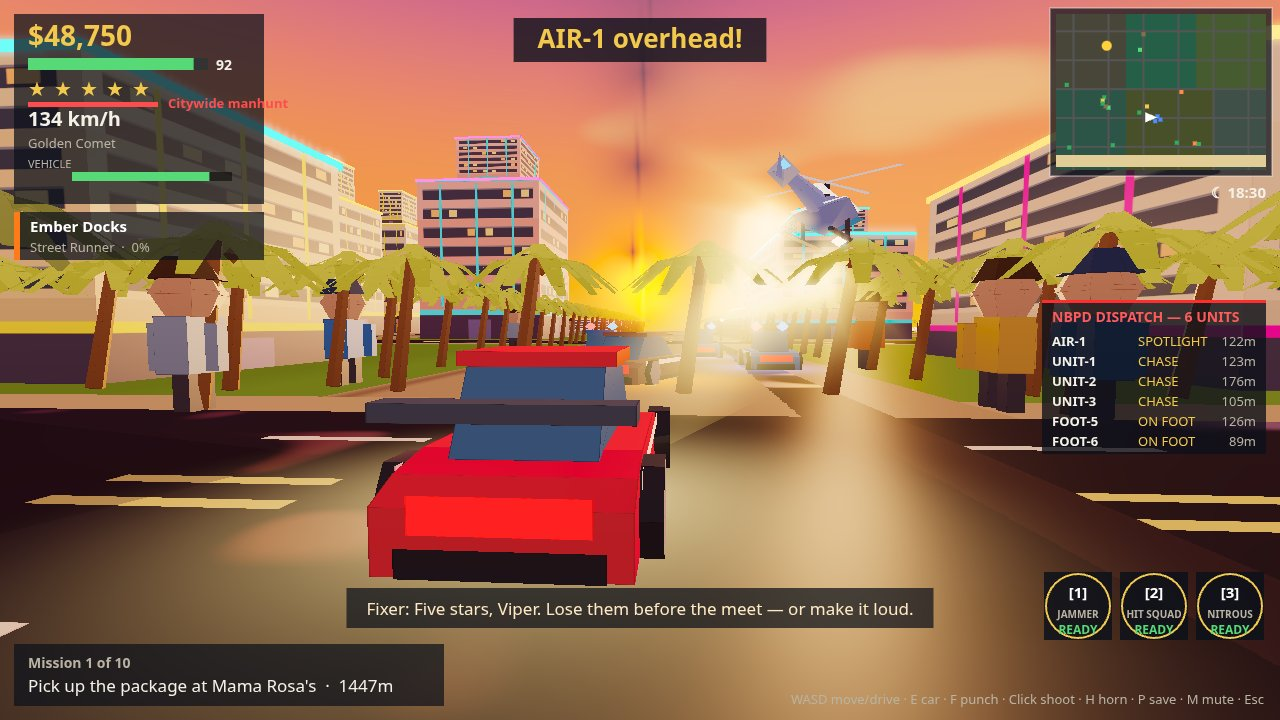
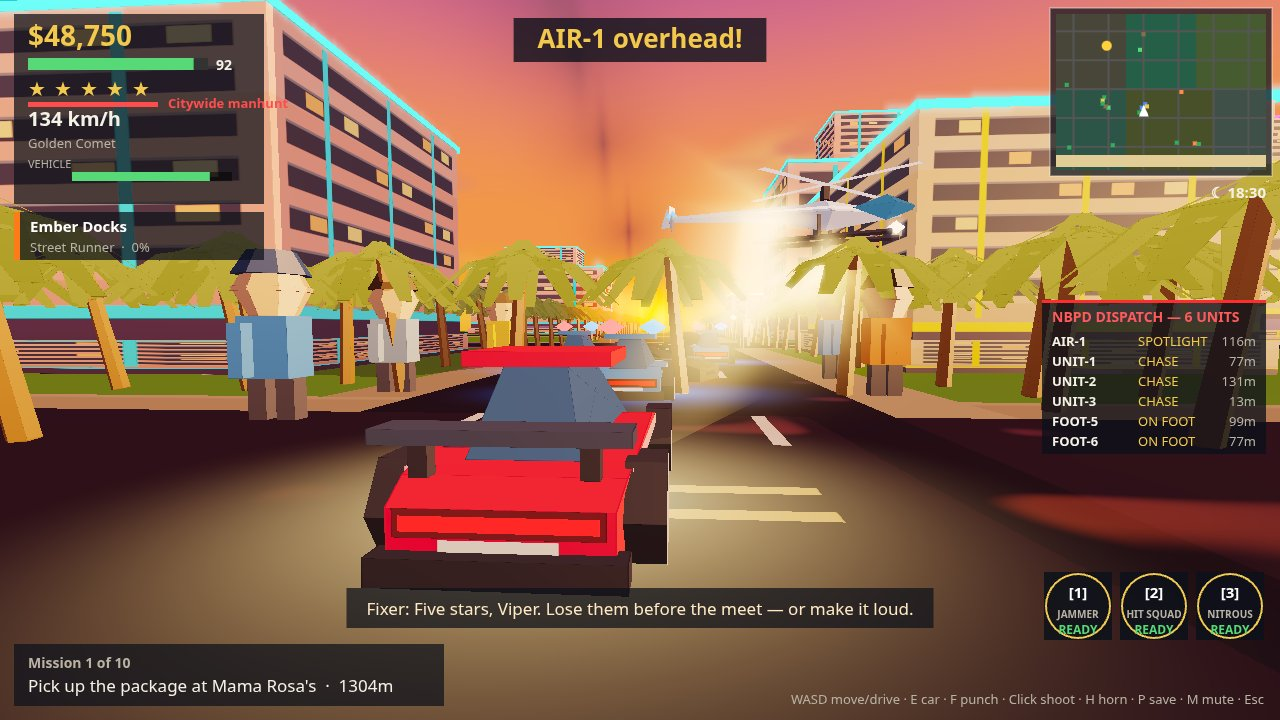
Neon Bay V10 GEOMETRY REWRITE: tapered car bodies, real heli/wreck/palms/buildings, smoke-plume streak fix, cover + plaza staging
- Cars: tapered-prism bodies (tpr), glasshouse + roof panel, full-width LED
  taillight bar, license plate, rear bumper, dual headlights + grille,
  spoiler with struts; van tall body, pickup short cab + bed, wreck
  crushed/charred body. Car from behind now reads as a car.
- Heli: lighter steel body, slimmer, longer tail + tail-rotor quads.
- Palms: fuller, wider, more drooping crowns; coconut removed (invisible).
- Buildings: podium bases, rooftop AC boxes, setback towers + water towers.
- Wreck flames smaller; smoke widened/softened/drifting — this was the
  sky vertical streak: the dense smoke column silhouetted against the sky.
  Pixel scan confirms the hard line at x=592 is gone in 03.
- Sky: depth 1.0 -> 0.9999 (SwiftShader seam safety).
- Diet: textures3d 3274 -> 2495 B (speckle/grid/detail loops cut); valances,
  lower side band, coconut removed. Dossier 162,971 / 163,840 (margin 869).
- Staging B: cover rotated to face north (sun at right edge, not center);
  patrols/heli/wreck/cops ahead, peds on sidewalks; plaza 04 filled with
  2 foreground cars + 2 foreground palms.
- QA: renders 4/4, 0 errors, all <=256 KiB; missions 10/10 PASS; live E 5/5
  PASS, 0 console/page/network errors. Static verts 77,202/96,000; dynamic
  cover 14,970/32,000.

diff --git a/game/src/renderer/meshes3d.js b/game/src/renderer/meshes3d.js
@@ -14,8 +14,8 @@ function gt(x0,z0,x1,z1,y,col,t,emi){const uu=x=>t[0]+(((x/140)%1)+1)%1*(t[2]-t[
 function b(cx,cy,cz,sx,sy,sz,yaw,col,uv,emi,rUv,rEm){const co=Math.cos(yaw),si=Math.sin(yaw),hx=sx/2,hy=sy/2,hz=sz/2,L=[];for(let i=0;i<8;i++)L.push([(i+3)%4<2?hx:-hx,i&4?hy:-hy,i&2?hz:-hz]);const P=L.map(p=>[cx+p[0]*co+p[2]*si,cy+p[1],cz-p[0]*si+p[2]*co]),N=[[0,1,0],[co,0,-si],[-co,0,si],[si,0,co],[-si,0,-co]],u2=rUv||uv,e2=rEm===undefined?emi:rEm;q(P[4],P[5],P[6],P[7],...N[0],col,u2,e2);q(P[1],P[2],P[6],P[5],...N[1],col,uv,emi);q(P[3],P[0],P[4],P[7],...N[2],col,uv,emi);q(P[2],P[3],P[7],P[6],...N[3],col,uv,emi);q(P[0],P[1],P[5],P[4],...N[4],col,uv,emi);}
 function tb(cx,cy,cz,ax,ay,az,r0,r1,len,col,cc,uv,emi,sg){const al=Math.hypot(ax,ay,az)||1;ax/=al;ay/=al;az/=al;const t=Math.abs(ay)<.9?[0,1,0]:[1,0,0];let ux=ay*t[2]-az*t[1],uy=az*t[0]-ax*t[2],uz=ax*t[1]-ay*t[0];const ul=Math.hypot(ux,uy,uz)||1;ux/=ul;uy/=ul;uz/=ul;const vx=ay*uz-az*uy,vy=az*ux-ax*uz,vz=ax*uy-ay*ux,c0=[cx-ax*len/2,cy-ay*len/2,cz-az*len/2],c1=[cx+ax*len/2,cy+ay*len/2,cz+az*len/2],c2=cc||col;sg=sg||6;for(let i=0;i<sg;i++){const a0=i/sg*Math.PI*2,a1=(i+1)/sg*Math.PI*2,d0=[ux*Math.cos(a0)+vx*Math.sin(a0),uy*Math.cos(a0)+vy*Math.sin(a0),uz*Math.cos(a0)+vz*Math.sin(a0)],d1=[ux*Math.cos(a1)+vx*Math.sin(a1),uy*Math.cos(a1)+vy*Math.sin(a1),uz*Math.cos(a1)+vz*Math.sin(a1)],p00=[c0[0]+d0[0]*r0,c0[1]+d0[1]*r0,c0[2]+d0[2]*r0],p01=[c0[0]+d1[0]*r0,c0[1]+d1[1]*r0,c0[2]+d1[2]*r0],p10=[c1[0]+d0[0]*r1,c1[1]+d0[1]*r1,c1[2]+d0[2]*r1],p11=[c1[0]+d1[0]*r1,c1[1]+d1[1]*r1,c1[2]+d1[2]*r1];q(p00,p10,p11,p01,(d0[0]+d1[0])/2,(d0[1]+d1[1])/2,(d0[2]+d1[2])/2,col,uv,emi);tr(c0,[c0[0]+d1[0]*r0,c0[1]+d1[1]*r0,c0[2]+d1[2]*r0],p00,-ax,-ay,-az,c2,uv,emi);tr(c1,p10,[c1[0]+d1[0]*r1,c1[1]+d1[1]*r1,c1[2]+d1[2]*r1],ax,ay,az,c2,uv,emi);}}
 function ba(cx,cy,cz,rx,ry,rz,col,emi){const T=[cx,cy+ry,cz],B=[cx,cy-ry,cz],E=[[cx+rx,cy,cz],[cx,cy,cz+rz],[cx-rx,cy,cz],[cx,cy,cz-rz]];for(let i=0;i<4;i++){const a=E[i],b2=E[(i+1)%4],mx=(a[0]+b2[0])/2-cx,mz=(a[2]+b2[2])/2-cz;tr(T,a,b2,mx/rx,1,mz/rz,col,U,emi);tr(B,b2,a,mx/rx,-1,mz/rz,col,U,emi);}}
-function pr(pts,hw,cx,cy,cz,yaw,col,uv,emi){const co=Math.cos(yaw),si=Math.sin(yaw),X=(lx,lz)=>[cx+lx*co+lz*si,cz-lx*si+lz*co];for(let i=0;i<pts.length;i++){const p0=pts[i],p1=pts[(i+1)%pts.length],dx=p1[0]-p0[0],dy=p1[1]-p0[1],ln=Math.hypot(dx,dy)||1,nn=[dy/ln,-dx/ln],w0=X(p0[0],-hw),w1=X(p1[0],-hw),w2=X(p1[0],hw),w3=X(p0[0],hw);q([w0[0],cy+p0[1],w0[1]],[w1[0],cy+p1[1],w1[1]],[w2[0],cy+p1[1],w2[1]],[w3[0],cy+p0[1],w3[1]],nn[0]*co,nn[1],-nn[0]*si,col,uv,emi);}let gx=0,gy=0;for(const p of pts){gx+=p[0];gy+=p[1];}gx/=pts.length;gy/=pts.length;const g0=X(gx,hw),g1=X(gx,-hw);for(let i=0;i<pts.length;i++){const p0=pts[i],p1=pts[(i+1)%pts.length],a0=X(p0[0],hw),a1=X(p1[0],hw),b0=X(p0[0],-hw),b1=X(p1[0],-hw);tr([g0[0],cy+gy,g0[1]],[a0[0],cy+p0[1],a0[1]],[a1[0],cy+p1[1],a1[1]],si,0,co,col,uv,emi);tr([g1[0],cy+gy,g1[1]],[b1[0],cy+p1[1],b1[1]],[b0[0],cy+p0[1],b0[1]],-si,0,-co,col,uv,emi);}}
-return{data,reset(){n=0;},slice(){return data.subarray(0,n*VICE_VERT_STRIDE);},q,tr,gq,gt,b,tb,ba,pr};}
+function tpr(pts,cx,cy,cz,yaw,col,uv,emi){const co=Math.cos(yaw),si=Math.sin(yaw),X=(lx,lz)=>[cx+lx*co+lz*si,cz-lx*si+lz*co];for(let i=0;i<pts.length;i++){const p0=pts[i],p1=pts[(i+1)%pts.length],dx=p1[0]-p0[0],dy=p1[1]-p0[1],ln=Math.hypot(dx,dy)||1,nn=[dy/ln,-dx/ln],w0=X(p0[0],-p0[2]),w1=X(p1[0],-p1[2]),w2=X(p1[0],p1[2]),w3=X(p0[0],p0[2]);q([w0[0],cy+p0[1],w0[1]],[w1[0],cy+p1[1],w1[1]],[w2[0],cy+p1[1],w2[1]],[w3[0],cy+p0[1],w3[1]],nn[0]*co,nn[1],-nn[0]*si,col,uv,emi);}let gx=0,gy=0,gw=0;for(const p of pts){gx+=p[0];gy+=p[1];gw+=p[2];}gx/=pts.length;gy/=pts.length;gw/=pts.length;const g0=X(gx,gw),g1=X(gx,-gw);for(let i=0;i<pts.length;i++){const p0=pts[i],p1=pts[(i+1)%pts.length],a0=X(p0[0],p0[2]),a1=X(p1[0],p1[2]),b0=X(p0[0],-p0[2]),b1=X(p1[0],-p1[2]);tr([g0[0],cy+gy,g0[1]],[a0[0],cy+p0[1],a0[1]],[a1[0],cy+p1[1],a1[1]],si,0,co,col,uv,emi);tr([g1[0],cy+gy,g1[1]],[b1[0],cy+p1[1],b1[1]],[b0[0],cy+p0[1],b0[1]],-si,0,-co,col,uv,emi);}}
+return{data,reset(){n=0;},slice(){return data.subarray(0,n*VICE_VERT_STRIDE);},q,tr,gq,gt,b,tb,ba,tpr};}
 export function viceBuildingHeight(b){const h=(((b.x*7+b.y*13)%100)+100)%100/100,cx=b.x+b.w/2,cy=b.y+b.h/2;return(60+h*140)*(cx>1200&&cx<3000&&cy>600&&cy<2000?1.5:1)*(cy>2300?.6:1);}
 const NT=[[1,.18,.47],[0,.9,1],[1,.82,.24],[1,.48,.18]];
 export function buildStatic(city){
@@ -31,38 +31,44 @@ if(b.kind==='stadium'){m.b(cx,18,cz,b.w,36,b.h,0,wh,FV[1],.3,RV,0);continue;}
 if(b.kind==='lighthouse'){m.tb(cx,45,cz,0,1,0,17,17,90,viceHex('#c94f43'),null,U,.15,8);m.tb(cx,135,cz,0,1,0,15,15,90,wh,null,U,.3,8);m.ba(cx,185,cz,11,6,11,[1,.82,.24],1);continue;}
 const hg=viceBuildingHeight(b);
 m.b(cx,hg/2,cz,b.w,hg,b.h,0,wh,FV[ti],.12,RV,0);
+m.b(cx,7,cz,b.w+8,14,b.h+8,0,wh,FV[ti],.08,RV,0);
 m.b(cx,hg-2,cz,b.w+4,4,b.h+4,0,tm,U,1);
-if(hg>150){const th=hg*.32;m.b(cx,hg+th/2,cz,b.w*.55,th,b.h*.55,0,wh,FV[ti],.15,RV,0);m.b(cx,hg+th-1,cz,b.w*.55+4,3,b.h*.55+4,0,tm,U,1);}
+if(hg>150){const th=hg*.32;m.b(cx,hg+th/2,cz,b.w*.55,th,b.h*.55,0,wh,FV[ti],.15,RV,0);m.b(cx,hg+th-1,cz,b.w*.55+4,3,b.h*.55+4,0,tm,U,1);m.b(cx,hg+th+2,cz,12,4,12,0,[.5,.5,.55],U,0);if((b.x+b.y)%3===0){m.tb(cx,hg+th+10,cz,0,1,0,6,6,16,X('#7a5c3e'),null,U,0,6);m.ba(cx,hg+th+20,cz,7,4,7,X('#8a6f3c'),0);}}
+else m.b(cx,hg+2,cz,14,4,14,0,[.5,.5,.55],U,0);
 }
 const tr2=X('#6b4a2f'),lf=X('#5f7a33'),lf2=X('#74903f');
 for(const palm of city.palms){
-const lean=((palm.x*7+palm.y*3)%10)/10*.6-.3,lx=Math.sin(lean),lz=Math.cos(lean)*.4;
+const lean=((palm.x*7+palm.y*3)%10)/10*.7-.35,lx=Math.sin(lean),lz=Math.cos(lean)*.4;
 m.tb(palm.x+lx*7,20,palm.y+lz*7,lx*.35,1,lz*.35,2.4,1.7,40,tr2,null,U,0,6);
 const cxp=palm.x+lx*16,czp=palm.y+lz*16;
-for(let f=0;f<12;f++){const a=f/12*6.283+lean,ca=Math.cos(a),sa=Math.sin(a),lc=f%2?lf:lf2,px=-sa,pz=ca,x1=cxp+ca*14,z1=czp+sa*14,x2=cxp+ca*24,z2=czp+sa*24;m.q([cxp+px*3,41,czp+pz*3],[x1+px*3,38,z1+pz*3],[x1-px*3,38,z1-pz*3],[cxp-px*3,41,czp-pz*3],0,1,0,lc,U,0);m.q([x1+px*3,38,z1+pz*3],[x2+px*1.5,30,z2+pz*1.5],[x2-px*1.5,30,z2-pz*1.5],[x1-px*3,38,z1-pz*3],0,1,0,lc,U,0);}
-for(let f=0;f<6;f++){const a=f/6*6.283+lean+.5,ca=Math.cos(a),sa=Math.sin(a),x2=cxp+ca*18,z2=czp+sa*18;m.q([cxp-sa*2,44,czp+ca*2],[x2-sa,35,z2+ca],[x2+sa,35,z2-ca],[cxp+sa*2,44,czp-ca*2],0,1,0,lf2,U,0);}
-m.ba(cxp+4,37,czp,2.6,2.2,2.6,X('#8a6f3c'),0);}
+for(let f=0;f<12;f++){const a=f/12*6.283+lean,ca=Math.cos(a),sa=Math.sin(a),lc=f%2?lf:lf2,px=-sa,pz=ca,x1=cxp+ca*15,z1=czp+sa*15,x2=cxp+ca*27,z2=czp+sa*27;m.q([cxp+px*3.5,41,czp+pz*3.5],[x1+px*3.5,37,z1+pz*3.5],[x1-px*3.5,37,z1-pz*3.5],[cxp-px*3.5,41,czp-pz*3.5],0,1,0,lc,U,0);m.q([x1+px*3.5,37,z1+pz*3.5],[x2+px*1.5,26,z2+pz*1.5],[x2-px*1.5,26,z2-pz*1.5],[x1-px*3.5,37,z1-pz*3.5],0,1,0,lc,U,0);}
+for(let f=0;f<6;f++){const a=f/6*6.283+lean+.5,ca=Math.cos(a),sa=Math.sin(a),x2=cxp+ca*19,z2=czp+sa*19;m.q([cxp-sa*2,44,czp+ca*2],[x2-sa,34,z2+ca],[x2+sa,34,z2-ca],[cxp+sa*2,44,czp-ca*2],0,1,0,lf2,U,0);}
+}
 let lamp=0;
-for(const ax of AVENUES)for(const sy of STREETS){lamp++;if(lamp%2===0)continue;m.tb(ax+70,13,sy+70,0,1,0,1.6,1.2,26,[.15,.15,.17],null,U,0,6);m.tb(ax+66,26,sy+70,-.7,.25,0,1,1,11,[.15,.15,.17],null,U,0,5);m.ba(ax+62,27,sy+70,3.5,2.5,3.5,[1,.85,.55],1);for(let z=0;z<3;z++)m.gq(ax-56,sy-78+z*10,ax+56,sy-72+z*10,.2,wh,0);}
+for(const ax of AVENUES)for(const sy of STREETS){lamp++;if(lamp%2===0)continue;m.tb(ax+70,13,sy+70,0,1,0,1.6,1.2,26,[.15,.15,.17],null,U,0,6);m.tb(ax+66,26,sy+70,-.7,.25,0,1,1,11,[.15,.15,.17],null,U,0,5);m.ba(ax+62,27,sy+70,3.5,2.5,3.5,[1,.85,.55],1);for(let z=0;z<3;z++)m.gq(ax-56,sy-78+z*10,ax+56,sy-72+z*10,.2,wh,0);
+if(lamp%4===1){m.b(ax-70,3,sy-70,12,6,12,0,X('#8a6f4d'),U,0);m.ba(ax-70,8,sy-70,7,5,7,lf,0);}}
 m.gq(0,2624,WORLD.width,2646,.25,viceHex('#8a6f4d'),0);
 const dk=X('#4a3f35');
 for(let s=0;s<3;s++){const bx=800+s*1000;m.b(bx,10,2780,1000,4,26,0,dk,U,0);}
 return m.slice();}
 function carBody(m,x,z,angle,L,W,col,kind,wheels){
-const yaw=-angle,co=Math.cos(angle),si=Math.sin(angle),hL=L/2,hw=W/2-1;
+const yaw=-angle,co=Math.cos(angle),si=Math.sin(angle),hL=L/2,hw=W/2-1,H=kind==='van'?1.35:1,wk=kind==='wreck',pk=kind==='pickup';
 const P=(a,y,b)=>[x+co*a-si*b,y,z+si*a+co*b];
-m.pr([[hL,1.2],[hL,5.5],[L*.40,7.2],[L*.28,8.2],[L*.16,9],[-L*.30,9],[-L*.42,8],[-hL,6.5],[-hL,1.2]],hw,x,0,z,yaw,col,U,0);
-m.pr([[L*.24,8.2],[L*.06,15.5],[-L*.02,16.2],[-L*.26,16.2],[-L*.36,8.6]],hw-3.5,x,0,z,yaw,[.08,.12,.18],U,.25);
-const rp=P(-L*.10,16.9,0);m.b(rp[0],16.9,rp[2],L*.32,1.4,W-7,yaw,col,U,0);
+m.tpr([[1,1.2,.9],[1,5.5,.93],[.8,7.2,1],[.56,8.2,1],[.32,9,.99],[-.6,9,.97],[-.84,8,.92],[-1,6.5,.87],[-1,1.2,.87]].map(p=>[p[0]*hL,p[1]*H,p[2]*hw]),x,0,z,yaw,col,U,0);
+const bY=8.2*H,cT=wk?12.6:16.2*H,cM=wk?12:15.5*H;
+const cab=pk?[[.48,bY,-3.5],[.12,cM,-6.5],[-.04,cT,-7],[-.1,bY+.4,-5]]:[[.48,bY,-3.5],[.12,cM,-6.5],[-.04,cT,-7],[-.52,cT,-7],[wk?-.6:-.72,bY+.4,-5]];
+m.tpr(cab.map(p=>[p[0]*hL,p[1],hw+p[2]]),x,0,z,yaw,wk?[.05,.05,.06]:[.08,.12,.18],U,wk?0:.25);
+if(!wk&&!pk){const rp=P(-L*.10,16.9*H,0);m.b(rp[0],16.9*H,rp[2],L*.32,1.4,W-8,yaw,col,U,0);}
 const hi=col.map(c=>Math.min(1,c*.5+.5));
-for(const s of[-1,1]){m.q(P(L*.38,6.8,s*(hw+.25)),P(-L*.40,6.8,s*(hw+.25)),P(-L*.40,8.4,s*(hw+.25)),P(L*.38,8.4,s*(hw+.25)),0,.6,s*.8,hi,U,.18);
-m.q(P(L*.36,1.2,s*(hw+.2)),P(-L*.36,1.2,s*(hw+.2)),P(-L*.36,2.6,s*(hw+.2)),P(L*.36,2.6,s*(hw+.2)),0,0,s,[.06,.06,.08],U,0);}
-m.q(P(hL+.3,1.2,-(hw-2)),P(hL+.3,1.2,hw-2),P(hL+.3,3.5,hw-2),P(hL+.3,3.5,-(hw-2)),co,0,si,[.08,.08,.1],U,0);
-m.q(P(-hL-.3,1.2,hw-2),P(-hL-.3,1.2,-(hw-2)),P(-hL-.3,3.5,-(hw-2)),P(-hL-.3,3.5,hw-2),-co,0,-si,[.08,.08,.1],U,0);
-if(wheels)for(const[lx,lz]of[[L*.32,hw+.5],[L*.32,-(hw+.5)],[-L*.32,hw+.5],[-L*.32,-(hw+.5)]]){const w2=P(lx,4.5,lz);m.tb(w2[0],4.5,w2[2],-si,0,co,4.5,4.5,3,[.08,.08,.1],[.75,.75,.78],U,0,6);}
-m.q(P(hL+.2,4.5,-(hw-3)),P(hL+.2,4.5,hw-3),P(hL+.2,7.5,hw-3),P(hL+.2,7.5,-(hw-3)),co,0,si,[1,.9,.6],U,1);
-m.q(P(-hL-.2,4.5,hw-3),P(-hL-.2,4.5,-(hw-3)),P(-hL-.2,7.5,-(hw-3)),P(-hL-.2,7.5,hw-3),-co,0,-si,[.9,.1,.1],U,.5);
-if(kind==='muscle'||kind==='sports'){const s2=P(-L*.46,13.5,0);m.b(s2[0],13.5,s2[2],3,1.5,W*.92,yaw,[.08,.08,.1],U,.2);}}
+for(const s of[-1,1])m.q(P(L*.38,6.8*H,s*(hw+.25)),P(-L*.40,6.8*H,s*(hw*.92+.25)),P(-L*.40,8.4*H,s*(hw*.92+.25)),P(L*.38,8.4*H,s*(hw+.25)),0,.6,s*.8,hi,U,.18);
+if(wheels)for(const[lx,lz]of[[L*.32,hw+.5],[L*.32,-(hw+.5)],[-L*.32,hw+.5],[-L*.32,-(hw+.5)]]){const w2=P(lx,4.5,lz);m.tb(w2[0],4.5,w2[2],-si,0,co,5,5,3.5,[.08,.08,.1],[.8,.8,.82],U,0,6);}
+for(const s of[-1,1])m.q(P(hL+.25,4.6*H,s*(hw*.4)),P(hL+.25,4.6*H,s*(hw*.85)),P(hL+.25,6.2*H,s*(hw*.85)),P(hL+.25,6.2*H,s*(hw*.4)),co,0,si,wk?[.12,.1,.08]:[1,.92,.65],U,wk?0:1);
+m.q(P(hL+.35,3*H,-(hw*.45)),P(hL+.35,3*H,hw*.45),P(hL+.35,4.4*H,hw*.45),P(hL+.35,4.4*H,-(hw*.45)),co,0,si,[.05,.05,.06],U,0);
+m.q(P(-hL-.35,4.4*H,-(hw*.8)),P(-hL-.35,4.4*H,hw*.8),P(-hL-.35,6.6*H,hw*.8),P(-hL-.35,6.6*H,-(hw*.8)),-co,0,-si,[.22,.02,.02],U,0);
+m.q(P(-hL-.45,4.9*H,-(hw*.75)),P(-hL-.45,4.9*H,hw*.75),P(-hL-.45,6.1*H,hw*.75),P(-hL-.45,6.1*H,-(hw*.75)),-co,0,-si,wk?[.15,.05,.04]:[1,.07,.07],U,wk?0:1);
+m.q(P(-hL-.4,3.4*H,-4.5),P(-hL-.4,3.4*H,4.5),P(-hL-.4,4.3*H,4.5),P(-hL-.4,4.3*H,-4.5),-co,0,-si,wk?[.2,.2,.18]:[.82,.82,.78],U,.15);
+const rb=P(-hL-.3,2.2,0);m.b(rb[0],2.2,rb[2],2.5,2.2,W*.88,yaw,[.07,.07,.09],U,0);
+if(kind==='muscle'||kind==='sports'){const s2=P(-L*.46,11.8*H,0);m.b(s2[0],11.8*H,s2[2],4,1.2,W*.9,yaw,[.08,.08,.1],U,.2);for(const s of[-1,1]){const st2=P(-L*.46,10.2*H,s*W*.3);m.b(st2[0],10.2*H,st2[2],1.5,3.5,1.5,yaw,[.08,.08,.1],U,0);}}}
 export function buildDyn(state,m){
 m.reset();
 const skin=X('#e8b98a'),px=state.player.x,pz=state.player.y;
@@ -92,22 +98,23 @@ for(const b of state.bullets)m.b(b.x,2,b.y,10,2,2,-Math.atan2(b.vy,b.vx),[1,.9,.
 for(const s of state.skids){const dx=s.x-px,dz=s.y-pz;if(dx*dx+dz*dz>1200*1200)continue;m.gq(s.x-7,s.y-2,s.x+7,s.y+2,.2,[.08,.08,.08],0);}
 if(state.objective){const o=state.objective,bob=30+Math.sin(state.time*3)*4,gd=[1,.82,.24];m.q([o.x,bob+14,o.y],[o.x+10,bob,o.y],[o.x,bob-14,o.y],[o.x-10,bob,o.y],0,0,1,gd,U,1);m.q([o.x,bob+14,o.y],[o.x,bob,o.y+10],[o.x,bob-14,o.y],[o.x,bob,o.y-10],1,0,0,gd,U,1);}
 const air=state.air;
-if(air&&air.heli){const h=air.heli,st=Math.floor(state.time*3)%2===0,fx=Math.cos(h.angle),fz=Math.sin(h.angle),lx=-fz,lz=fx,nv=[.26,.30,.46];
-m.ba(h.x,h.z,h.y,36,9,15,nv,.15);
-m.b(h.x,h.z+8.5,h.y,46,2,8,-h.angle,[.92,.92,.95],U,.45);
-m.ba(h.x,h.z+2,h.y,31,2,16,[.92,.92,.94],.4);
-m.ba(h.x+fx*24,h.z+2,h.y+fz*24,15,6,13,X('#0e1a26'),.65);
-m.tb(h.x-fx*38,h.z+5,h.y-fz*38,-fx,.08,-fz,5,1.8,45,nv,null,U,.2,6);
-const tx=h.x-fx*60,tz=h.y-fz*60;
-m.tr([tx,h.z+3,tz],[tx-fx*8,h.z+3,tz-fz*8],[tx-fx*4,h.z+13,tz-fz*4],lx,0,lz,nv,U,.2);
-m.tr([tx,h.z+3,tz],[tx-fx*4,h.z+13,tz-fz*4],[tx-fx*8,h.z+3,tz-fz*8],-lx,0,-lz,nv,U,.2);
-m.ba(tx,h.z+6,tz,1.5,6,6,[.3,.3,.35],.3);
-m.tb(h.x,h.z+11,h.y,0,1,0,2.2,2.2,6,[.1,.1,.12],null,U,0,5);
-for(let k=0;k<2;k++){const ra=h.rotor+k*Math.PI/2,bx=Math.cos(ra),bz=Math.sin(ra),px2=-bz,pz2=bx;m.q([h.x+bx*36+px2*1.5,h.z+15,h.y+bz*36+pz2*1.5],[h.x-bx*36+px2*1.5,h.z+15,h.y-bz*36+pz2*1.5],[h.x-bx*36-px2*1.5,h.z+15,h.y-bz*36-pz2*1.5],[h.x+bx*36-px2*1.5,h.z+15,h.y+bz*36-pz2*1.5],0,1,0,[.4,.4,.46],U,.3);}
+if(air&&air.heli){const h=air.heli,st=Math.floor(state.time*3)%2===0,fx=Math.cos(h.angle),fz=Math.sin(h.angle),lx=-fz,lz=fx,nv=[.62,.68,.8];
+m.ba(h.x,h.z,h.y,38,7,12,nv,.15);
+m.ba(h.x,h.z+2,h.y,33,2.5,13,[.92,.92,.94],.4);
+m.ba(h.x+fx*26,h.z+1,h.y+fz*26,14,5.5,11,X('#0e1a26'),.65);
+m.tb(h.x-fx*45,h.z+4,h.y-fz*45,-fx,.06,-fz,4.5,1.6,70,nv,null,U,.2,6);
+const tx=h.x-fx*80,tz=h.y-fz*80;
+m.tr([tx,h.z+2,tz],[tx-fx*7,h.z+2,tz-fz*7],[tx-fx*3,h.z+13,tz-fz*3],lx,0,lz,nv,U,.2);
+m.tr([tx,h.z+2,tz],[tx-fx*3,h.z+13,tz-fz*3],[tx-fx*7,h.z+2,tz-fz*7],-lx,0,-lz,nv,U,.2);
+m.ba(tx,h.z+5,tz,1.5,6,6,[.3,.3,.35],.3);
+m.q([tx-lx*3,h.z+9,tz-lz*3],[tx-lx*3,h.z+13,tz-lz*3],[tx+lx*3,h.z+13,tz+lz*3],[tx+lx*3,h.z+9,tz+lz*3],fx,0,fz,[.9,.9,.92],U,.5);
+m.q([tx-lx*3,h.z+9,tz-lz*3],[tx+lx*3,h.z+9,tz+lz*3],[tx+lx*3,h.z+13,tz+lz*3],[tx-lx*3,h.z+13,tz-lz*3],-fx,0,-fz,[.9,.9,.92],U,.5);
+m.tb(h.x,h.z+10,h.y,0,1,0,2.2,2.2,6,[.1,.1,.12],null,U,0,5);
+for(let k=0;k<2;k++){const ra=h.rotor+k*Math.PI/2,bx=Math.cos(ra),bz=Math.sin(ra),px2=-bz,pz2=bx;m.q([h.x+bx*44+px2*2,h.z+14,h.y+bz*44+pz2*2],[h.x-bx*44+px2*2,h.z+14,h.y-bz*44+pz2*2],[h.x-bx*44-px2*2,h.z+14,h.y-bz*44-pz2*2],[h.x+bx*44-px2*2,h.z+14,h.y+bz*44-pz2*2],0,1,0,[.6,.6,.66],U,.3);}
 for(const s of[-10,10]){m.tb(h.x+lx*s,h.z-11,h.y+lz*s,fx,0,fz,1.2,1.2,60,[.15,.15,.17],null,U,0,5);m.tb(h.x+lx*s,h.z-6,h.y+lz*s,0,1,0,1,1,10,[.15,.15,.17],null,U,0,5);}
-m.ba(h.x+fx*28,h.z-8,h.y+fz*28,4,3,4,[1,.95,.8],1);
+m.ba(h.x+fx*30,h.z-8,h.y+fz*30,4,3,4,[1,.95,.8],1);
 m.ba(tx,h.z+8,tz,3,3,3,st?[1,.2,.2]:[.2,.4,1],1);}
-for(const w of state.wrecks||[])carBody(m,w.x,w.y,w.angle-.22,52,24,[.45,.32,.26],'sedan',true);
+for(const w of state.wrecks||[])carBody(m,w.x,w.y,w.angle-.22,52,24,[.13,.11,.10],'wreck',true);
 if(state.race&&state.race.active){const circ=StreetRaceCircuit.CIRCUITS[state.race.circuit];if(!circ)return m.slice();const cg=circ.gates;for(let i=0;i<cg.length;i++){const g=cg[i],col=i===state.race.gate?[1,.18,.55]:[0,.9,1];for(const s of[-30,30])m.tb(g[0]+s,22,g[1],0,1,0,3,2,44,col,null,U,1,6);m.tb(g[0],44,g[1],1,0,0,2.5,2.5,66,col,null,U,1,5);m.gq(g[0]-33,g[1]-4,g[0]+33,g[1]+4,.3,col,.9);}}
 return m.slice();}
 export function buildAdd(state,m){
@@ -129,10 +136,10 @@ for(const pt of state.particles){if(dn>=30)break;const dx=pt.x-p.x,dz=pt.y-p.y;i
 if(state.objective)vb(state.objective.x,state.objective.y,150,5,[1,.82,.24],.3);
 const air=state.air;
 if(air&&air.heli){const h=air.heli;bm(h.x,h.z-2,h.y,h.spotX,1,h.spotY,12,52,[1,.8,.4],.6);bm(h.x,h.z-2,h.y,h.spotX,1,h.spotY,8,38,[1,.9,.6],.7);m.gq(h.spotX-60,h.spotY-60,h.spotX+60,h.spotY+60,.3,[1,.9,.6],.5);}
-for(const w of state.wrecks||[]){const fl=1+Math.sin(state.time*9+w.x)*.15;m.gq(w.x-60,w.y-60,w.x+60,w.y+60,.35,[1,.32,.06],.6);for(let k=0;k<3;k++){const fx=w.x+(k-1)*9,fw=(32-k*4)*fl,fh=(58-k*7)*fl,fc=k===0?[1,.16,.02]:k===1?[1,.34,.04]:[1,.58,.10];m.q([fx-fw,10,w.y],[fx+fw,10,w.y],[fx+fw,10+fh,w.y],[fx-fw,10+fh,w.y],0,0,1,fc,U,.7);m.q([fx,10,w.y-fw],[fx,10,w.y+fw],[fx,10+fh,w.y+fw],[fx,10+fh,w.y-fw],1,0,0,fc,U,.7);}}
+for(const w of state.wrecks||[]){const fl=1+Math.sin(state.time*9+w.x)*.15;m.gq(w.x-40,w.y-40,w.x+40,w.y+40,.35,[1,.32,.06],.6);for(let k=0;k<3;k++){const fx=w.x+(k-1)*8,fw=(24-k*3)*fl,fh=(34-k*5)*fl,fc=k===0?[1,.16,.02]:k===1?[1,.34,.04]:[1,.58,.10];m.q([fx-fw,10,w.y],[fx+fw,10,w.y],[fx+fw,10+fh,w.y],[fx-fw,10+fh,w.y],0,0,1,fc,U,.7);m.q([fx,10,w.y-fw],[fx,10,w.y+fw],[fx,10+fh,w.y+fw],[fx,10+fh,w.y-fw],1,0,0,fc,U,.7);}}
 return m.slice();}
 export function buildSmk(state,m){
 m.reset();
 const p=state.player;
-for(const w of state.wrecks||[]){const dx=w.x-p.x,dz=w.y-p.y;if(dx*dx+dz*dz>1200*1200)continue;const dr=Math.sin(state.time*.7+w.x)*6;for(let k=0;k<5;k++){const sy=30+k*20,sr=18+k*9,sa=.75-k*.05,sx=w.x-10-k*4+dr,sz=w.y-2+k*2,g2=.03+k*.01,sc=[g2,g2,g2+.02];m.q([sx-sr,sy,sz],[sx+sr,sy,sz],[sx+sr,sy+sr*1.6,sz],[sx-sr,sy+sr*1.6,sz],0,0,1,sc,U,sa);m.q([sx,sy,sz-sr],[sx,sy,sz+sr],[sx,sy+sr*1.6,sz+sr],[sx,sy+sr*1.6,sz-sr],1,0,0,sc,U,sa);}}
+for(const w of state.wrecks||[]){const dx=w.x-p.x,dz=w.y-p.y;if(dx*dx+dz*dz>1200*1200)continue;const dr=Math.sin(state.time*.7+w.x)*12;for(let k=0;k<5;k++){const sy=30+k*20,sr=30+k*14,sa=.5-k*.04,sx=w.x-10-k*9+dr,sz=w.y-2+k*2,g2=.03+k*.01,sc=[g2,g2,g2+.02];m.q([sx-sr,sy,sz],[sx+sr,sy,sz],[sx+sr,sy+sr*1.6,sz],[sx-sr,sy+sr*1.6,sz],0,0,1,sc,U,sa);m.q([sx,sy,sz-sr],[sx,sy,sz+sr],[sx,sy+sr*1.6,sz+sr],[sx,sy+sr*1.6,sz-sr],1,0,0,sc,U,sa);}}
 return m.slice();}

diff --git a/game/src/shots.js b/game/src/shots.js
@@ -103,7 +103,9 @@ export function stageShot(name, g, o) {
   g.spawnParkedCar('limo', 3300, 330, P);
   g.spawnParkedCar('patrol', 2750, 500, H);
   g.spawnParkedCar('sports', 3250, 500, -H);
-  for (const [x, y] of [[2740, 330], [3260, 330], [2700, 430], [3300, 430], [2700, 250], [3300, 260]]) g.city.palms.push({ x, y });
+  g.spawnParkedCar('taxi', 2850, 250, H);
+  g.spawnParkedCar('sports', 3150, 250, H);
+  for (const [x, y] of [[2740, 330], [3260, 330], [2700, 430], [3300, 430], [2700, 250], [3300, 260], [2880, 240], [3120, 240]]) g.city.palms.push({ x, y });
   ped(g, 2900, 430, '#7fb3d5');
   ped(g, 3100, 430, '#e8e2d4');
   ped(g, 2950, 700, '#c2a06a');
@@ -116,7 +118,7 @@ export function stageShot(name, g, o) {
   return { screen: PL };
  }
  g.reset(); sm();
- const sp = g.spawnParkedCar('sports', 1500, 1800, 0);
+ const sp = g.spawnParkedCar('sports', 1500, 1800, -H);
  sp.color = '#ff2a1a';
  const p = s.player;
  p.x = 1500; p.y = 1800;
@@ -125,20 +127,20 @@ export function stageShot(name, g, o) {
  p.pistol = true; p.shotgun = 5; p.rpg = 3; p.weapon = 6;
  g.setWanted(10);
  rf(g, 2, IDLE);
- sp.x = 1500; sp.y = 1800; sp.angle = 0; sp.speed = 420;
+ sp.x = 1500; sp.y = 1800; sp.angle = -H; sp.speed = 420;
  const staged = [sp];
- for (const [x, y, a] of [[1740, 1772, 0], [1790, 1828, 0], [1700, 1855, 0]]) { const c = g.spawnPatrolCar('patrol'); c.x = x; c.y = y; c.angle = a; c.speed = 380; staged.push(c); }
+ for (const [x, y, a] of [[1470, 1620, -H], [1530, 1560, -H], [1500, 1700, -H]]) { const c = g.spawnPatrolCar('patrol'); c.x = x; c.y = y; c.angle = a; c.speed = 380; staged.push(c); }
  s.cars = s.cars.filter((c) => staged.includes(c));
  s.cops = [];
- for (const [x, y] of [[1560, 1900], [1620, 1700]]) { const c = g.spawnFootCop(); c.x = x; c.y = y; }
+ for (const [x, y] of [[1428, 1750], [1572, 1650]]) { const c = g.spawnFootCop(); c.x = x; c.y = y; }
  const h = s.air.heli;
- if (h) { h.x = 1700; h.y = 1880; h.z = 70; h.spotX = 1500; h.spotY = 1800; h.angle = 0.5; }
- wreck(s, 1640, 1800, 0.6);
+ if (h) { h.x = 1580; h.y = 1600; h.z = 70; h.spotX = 1500; h.spotY = 1800; h.angle = 0.5; }
+ wreck(s, 1500, 1660, 0.6);
  s.upgrades.glow = 1;
  s.dialogue = ['Fixer: Five stars, Viper. Lose them before the meet — or make it loud.'];
- ped(g, 1560, 1700, '#7fb3d5');
- ped(g, 1700, 1900, '#d4693c');
- ped(g, 1575, 1890, '#f2c94c');
+ ped(g, 1428, 1700, '#7fb3d5');
+ ped(g, 1572, 1700, '#d4693c');
+ ped(g, 1428, 1600, '#f2c94c');
  sc(g); st();
  return { screen: PL };
 }

diff --git a/game/src/renderer/textures3d.js b/game/src/renderer/textures3d.js
@@ -26,20 +26,12 @@ g.shadowColor='#00e5ff';g.fillStyle='#8ef4ff';g.fillText('NEON',430,338);
 g.shadowColor='#ff9d00';g.fillStyle='#ffd23d';g.fillText('CASINO',660,338);
 g.restore();g.shadowBlur=0;
 F('#33302e',0,256,256,256);
-F('rgba(255,255,255,.07)',0,256,256,10);F('rgba(0,0,0,.25)',0,500,256,12);
-F('#4a4642',24,300,40,26);F('#4a4642',180,340,52,30);F('#5d5852',90,420,36,24);
 F('#fff',256,256,64,64);
 F('#1e1d28',0,512,256,256);
-for(let i=0;i<160;i++)F(i%3?'rgba(255,255,255,.05)':'rgba(0,0,0,.22)',(i*37)%256,512+(i*53)%256,2,2);
-for(let i=0;i<6;i++)F('rgba(255,255,255,.03)',(i*97)%256,512+(i*61)%256,60,14);
 F('#b8ab98',256,512,256,256);
 for(let i=0;i<4;i++)for(let j=0;j<4;j++)F((i+j)%2?'rgba(0,0,0,.13)':'rgba(255,255,255,.09)',256+i*64,512+j*64,64,64);
-g.strokeStyle='rgba(0,0,0,.45)';g.lineWidth=3;
-for(let i=0;i<=4;i++){g.beginPath();g.moveTo(256+i*64,512);g.lineTo(256+i*64,768);g.stroke();g.beginPath();g.moveTo(256,512+i*64);g.lineTo(512,512+i*64);g.stroke();}
 F('#e8cf9a',512,512,256,256);
-for(let i=0;i<160;i++)F(i%2?'rgba(0,0,0,.08)':'rgba(255,255,255,.09)',512+(i*41)%256,512+(i*67)%256,2,2);
 F('#5d8a48',768,512,256,256);
-for(let i=0;i<40;i++)F(i%2?'rgba(0,0,0,.12)':'rgba(255,255,255,.06)',768+(i*53)%256,512+(i*89)%256,14+(i%3)*8,10+(i%2)*8);
 gl.pixelStorei(gl.UNPACK_FLIP_Y_WEBGL,true);
 const tex=gl.createTexture();gl.bindTexture(gl.TEXTURE_2D,tex);
 gl.texImage2D(gl.TEXTURE_2D,0,gl.RGBA,gl.RGBA,gl.UNSIGNED_BYTE,c);
